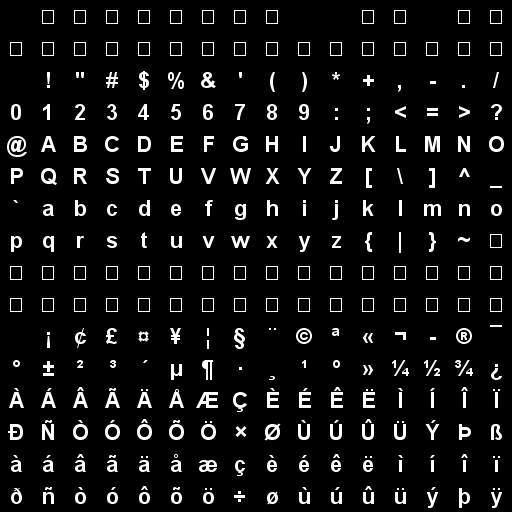
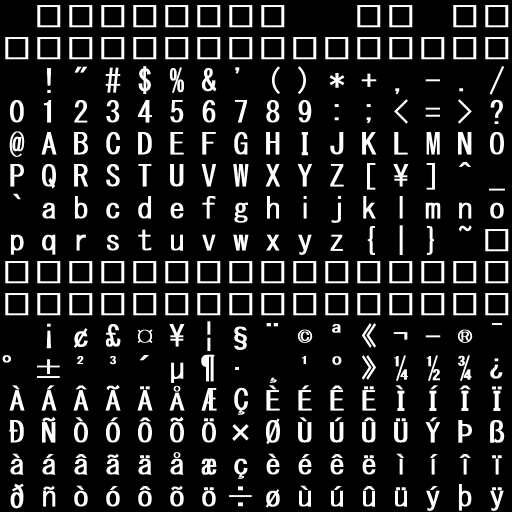
Fonts improvement & cursor added

diff --git a/src/info/nt5/engine/graphics/text/BitmapChar.java b/src/info/nt5/engine/graphics/text/BitmapChar.java
@@ -14,10 +14,12 @@ public class BitmapChar {
 	private final int gridSize = 16;
 	private final int cellSize = 32;
 
-	private float width = 0.2f;
-	private float height = 0.2f;
+	private static float width = 0.2f;
+	private static float height = 0.2f;
 
-	private String texturePath = "assets/img/font.png";
+	private int asciiCode;
+
+	private static String defaultFontPath = "assets/img/font.png";
 
 	private Texture texture;
 	private TextureAtlas textureAtlas;
@@ -26,21 +28,39 @@ public class BitmapChar {
 	private VertexArray VAO;
 	public Vector3f position = new Vector3f();
 
-	private float[] vertices = { -width, height, 0f, -width, -height, 0f, width, -height, 0f, width, height, 0f, };
-
-	private byte[] indices = { 0, 1, 2, 2, 3, 0 };
-
-	private float[] texCoords = { 0, 1, 0, 0, 1, 0, 1, 1 };
-
 	public BitmapChar(int ascii) {
+		this(ascii, width, height);
+	}
 
-		this.texture = Texture.fromImage(this.texturePath);
-		this.textureAtlas = new TextureAtlas(this.texture, this.cellSize);
+	public BitmapChar(int ascii, float wd) {
+		this(ascii, wd, wd);
+	}
 
-		int asciiCode = ascii;
+	public BitmapChar(int ascii, float width, float height) {
+		this(ascii, width, height, defaultFontPath);
+	}
+	
+	public BitmapChar(int ascii, float width, float height, String texturePath) {
+		this(ascii, width, height, Texture.fromImage(texturePath));
+	}
+	
+	public BitmapChar(int ascii, float width, float height, Texture texture) {
+
+		this.texture = texture;
+		textureAtlas = new TextureAtlas(this.texture, this.cellSize);
+
+		this.asciiCode = ascii;
+		BitmapChar.width = width;
+		BitmapChar.height = height;
 
 		int cellX = (int) asciiCode % this.gridSize;
 		int cellY = (int) asciiCode / this.gridSize;
+
+		float[] vertices = { -width, height, 0f, -width, -height, 0f, width, -height, 0f, width, height, 0f, };
+
+		byte[] indices = { 0, 1, 2, 2, 3, 0 };
+
+		float[] texCoords = { 0, 1, 0, 0, 1, 0, 1, 1 };
 
 		subTexture = textureAtlas.getCell(cellY, cellX);
 
@@ -56,7 +76,7 @@ public class BitmapChar {
 		texCoords[6] = subTexture.getMaxU();
 		texCoords[7] = subTexture.getMinV();
 
-		this.VAO = new VertexArray(this.vertices, this.indices, this.texCoords);
+		VAO = new VertexArray(vertices, indices, texCoords);
 	}
 
 	public void translate(Vector3f vector) {
@@ -75,5 +95,29 @@ public class BitmapChar {
 		Shader.defaultShader.unbind();
 		texture.unbind();
 		glDisable(GL_BLEND);
+	}
+
+	public static float getWidth() {
+		return BitmapChar.width;
+	}
+
+	public static float getHeight() {
+		return BitmapChar.height;
+	}
+
+	public int getAsciiCode() {
+		return asciiCode;
+	}
+	
+	public static String getDefaultFontPath() {
+		return defaultFontPath;
+	}
+
+	public static void setWidth(float width) {
+		BitmapChar.width = width;
+	}
+
+	public static void setHeight(float height) {
+		BitmapChar.height = height;
 	}
 }

diff --git a/src/info/nt5/engine/graphics/text/BitmapFont.java b/src/info/nt5/engine/graphics/text/BitmapFont.java
@@ -2,23 +2,54 @@ package info.nt5.engine.graphics.text;
 
 import java.util.*;
 
+import info.nt5.engine.graphics.Texture;
 import info.nt5.engine.math.Vector3f;
 
 public class BitmapFont {
 	private ArrayList<BitmapChar> CharList = new ArrayList<BitmapChar>();
+
 	private String text;
-	private float spacing = 0.30f;
+	
+	private Texture texture;
+	private static String bitmapFile = BitmapChar.getDefaultFontPath();
+
+	private static float spacing = 0.28f;
+
+	private static float width = 0.2f;
+	private static float height = 0.2f;
 
 	public BitmapFont(String text) {
-		this.text = text;
-		this.createChars();
+		this(text, spacing);
 	}
 
-	private void createChars() {
+	public BitmapFont(String text, float spacing) {
+		this(text, spacing, width, height);
+	}
+
+	public BitmapFont(String text, float spacing, float wd) {
+		this(text, spacing, wd, wd);
+	}
+
+	public BitmapFont(String text, float spacing, float width, float height) {
+		this(text, spacing, width, height, bitmapFile);
+	}
+	
+	public BitmapFont(String text, float spacing, float width, float height, String texturePath) {
+		this.text = text;
+		this.texture = Texture.fromImage(bitmapFile);
+		BitmapFont.spacing = spacing;
+		BitmapFont.width = width;
+		BitmapFont.height = height;
+		createChars();
+	}
+	
+	public void createChars() {
 		float space = spacing;
 		for (int i = 0; i < text.length(); i++) {
 			int asciiCode = (int) text.charAt(i);
-			BitmapChar Char = new BitmapChar(asciiCode);
+			
+			BitmapChar Char = new BitmapChar(asciiCode, width, height, texture);
+			
 			Char.position.x = space;
 			CharList.add(Char);
 			space += spacing;

diff --git a/src/info/nt5/test/BitmapFontTest.java b/src/info/nt5/test/BitmapFontTest.java
@@ -23,14 +23,13 @@ public class BitmapFontTest implements State {
 
 	@Override
 	public void init(GameManager gm, StateGame game) {
-
+		text = new BitmapFont("neko-kawaii desu nyan~ nyan~ kyuun~~ poi~ poi~ poi~");
+		text.translate(new Vector3f(-10f, 0f, 0.0f));
 	}
 
 	@Override
 	public void enter(GameManager gm, StateGame game) {
 		glClearColor(clearColor.r, clearColor.g, clearColor.b, clearColor.a);
-		text = new BitmapFont("hola soy un bitmapfont");
-		text.translate(new Vector3f(-10f, 0f, 0.0f));
 	}
 
 	@Override
@@ -47,6 +46,7 @@ public class BitmapFontTest implements State {
 
 	@Override
 	public void leave(GameManager gm, StateGame game) {
+
 	}
 
 }

diff --git a/src/info/nt5/test/IntroState.java b/src/info/nt5/test/IntroState.java
@@ -14,6 +14,8 @@ import info.nt5.engine.util.Logger;
 import info.nt5.engine.graphics.shader.Shader;
 import info.nt5.engine.graphics.Camera;
 import info.nt5.engine.graphics.Color;
+import info.nt5.engine.graphics.Cursor;
+import info.nt5.engine.graphics.Texture;
 import info.nt5.engine.game.Crate;
 
 public class IntroState implements State {
@@ -52,6 +54,8 @@ public class IntroState implements State {
 		
 		crate2 = new Crate(Color.PINK);
 		crate2.translate(new Vector3f(5f, 0f, 0.0f));
+		
+		gm.getWindow().setCursor(new Cursor(Texture.fromImage("assets/img/cursor.png")));
 	}
 
 	@Override
